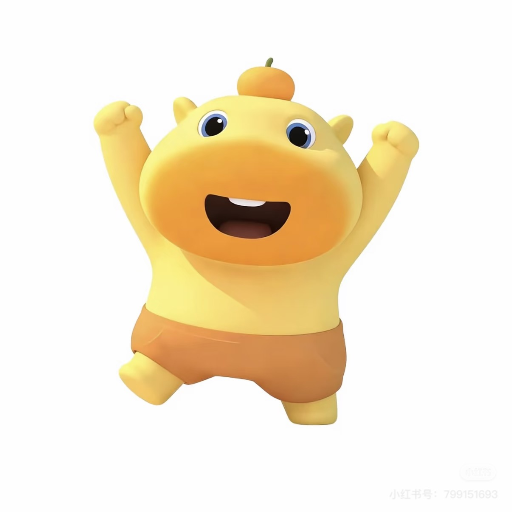
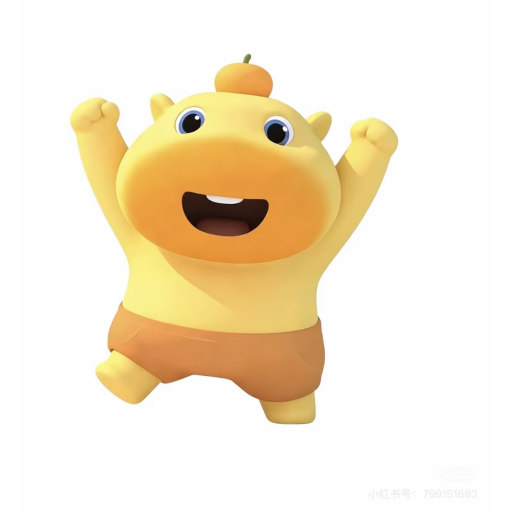
1

Changed region(s): [[0.125, 0.0938, 0.8438, 0.8438], [0.3438, 0.375, 0.5938, 0.4688], [0.3125, 0.625, 0.4062, 0.6562]]

diff --git a/sw.js b/sw.js
@@ -1,58 +1,75 @@
-const CACHE_NAME = 'lulu-weight-loss-v2';
-const URLS_TO_CACHE = ['index.html', 'manifest.json', 'icons/icon-192.png', 'icons/icon-512.png', 'icons/icon-180.png'];
+const CACHE_NAME = 'lulu-weight-v1';
+const urlsToCache = [
+  './',
+  './index.html',
+  './manifest.json',
+  './icons/icon-48.png',
+  './icons/icon-72.png',
+  './icons/icon-96.png',
+  './icons/icon-144.png',
+  './icons/icon-192.png',
+  './icons/icon-512.png'
+];
 
-// 安装：缓存核心资源
-self.addEventListener('install', function(event) {
+// 安装时预缓存所有资源
+self.addEventListener('install', event => {
   event.waitUntil(
-    caches.open(CACHE_NAME).then(function(cache) {
-      console.log('[SW] 缓存核心资源');
-      return cache.addAll(URLS_TO_CACHE).catch(function(err) {
-        console.log('[SW] 缓存部分失败(离线可用会受限):', err);
-      });
-    })
+    caches.open(CACHE_NAME)
+      .then(cache => {
+        return cache.addAll(urlsToCache);
+      })
+      .then(() => self.skipWaiting())
   );
-  self.skipWaiting();
 });
 
-// 激活：清理旧缓存
-self.addEventListener('activate', function(event) {
+// 激活时清理旧缓存
+self.addEventListener('activate', event => {
+  const cacheWhitelist = [CACHE_NAME];
   event.waitUntil(
-    caches.keys().then(function(cacheNames) {
+    caches.keys().then(cacheNames => {
       return Promise.all(
-        cacheNames.map(function(name) {
-          if (name !== CACHE_NAME) {
-            console.log('[SW] 删除旧缓存:', name);
-            return caches.delete(name);
+        cacheNames.map(cacheName => {
+          if (cacheWhitelist.indexOf(cacheName) === -1) {
+            return caches.delete(cacheName);
           }
         })
       );
-    })
+    }).then(() => self.clients.claim())
   );
-  self.clients.claim();
 });
 
-// 拦截请求：网络优先+缓存兜底
-self.addEventListener('fetch', function(event) {
+// 网络请求拦截 - 缓存优先策略
+self.addEventListener('fetch', event => {
+  // API请求不缓存，走网络
+  if (event.request.url.includes('api.deepseek.com')) {
+    return;
+  }
+  
   event.respondWith(
-    fetch(event.request).then(function(response) {
-      // 成功请求缓存副本
-      if (response && response.status === 200 && event.request.method === 'GET') {
-        var responseClone = response.clone();
-        caches.open(CACHE_NAME).then(function(cache) {
-          cache.put(event.request, responseClone);
-        });
-      }
-      return response;
-    }).catch(function() {
-      // 离线时使用缓存
-      return caches.match(event.request).then(function(cached) {
-        if (cached) return cached;
-        // 如果是导航请求(index.html)，返回缓存的首页
-        if (event.request.mode === 'navigate') {
-          return caches.match('index.html');
+    caches.match(event.request)
+      .then(response => {
+        // 缓存命中则返回缓存
+        if (response) {
+          return response;
         }
-        return new Response('离线模式', { status: 503 });
-      });
-    })
+        // 否则请求网络，并缓存结果
+        return fetch(event.request).then(
+          response => {
+            // 只缓存有效的响应
+            if (!response || response.status !== 200 || response.type !== 'basic') {
+              return response;
+            }
+            const responseToCache = response.clone();
+            caches.open(CACHE_NAME)
+              .then(cache => {
+                cache.put(event.request, responseToCache);
+              });
+            return response;
+          }
+        ).catch(() => {
+          // 完全离线时可以返回缓存中的首页
+          return caches.match('./index.html');
+        });
+      })
   );
 });